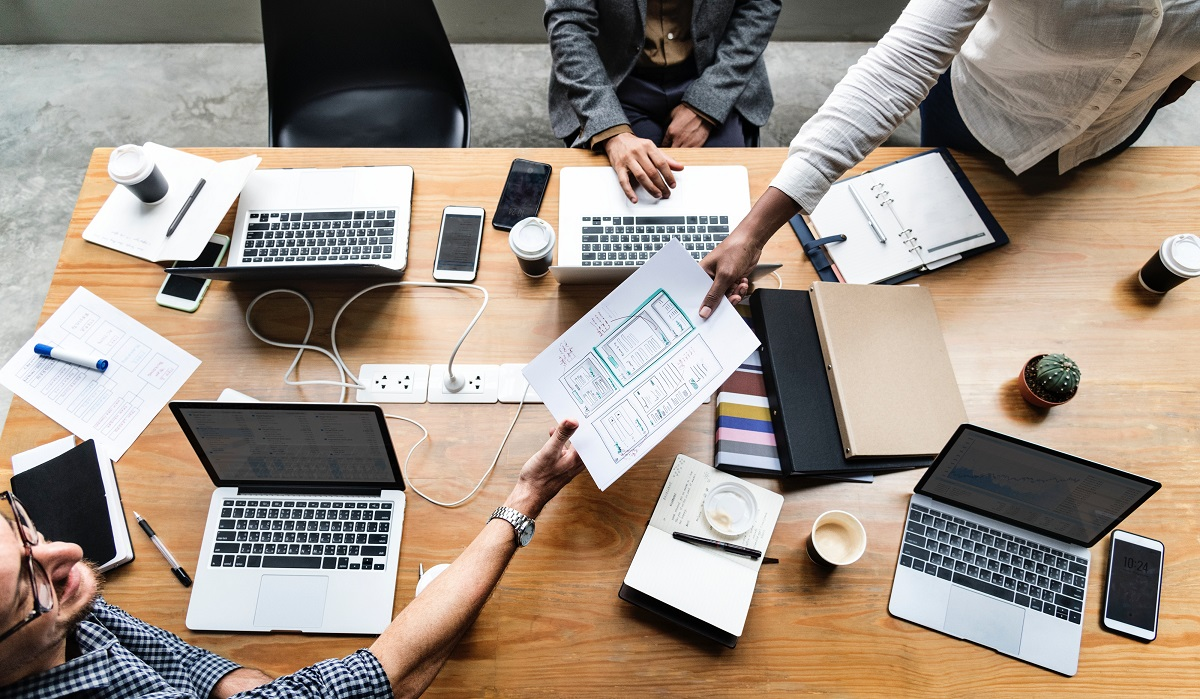
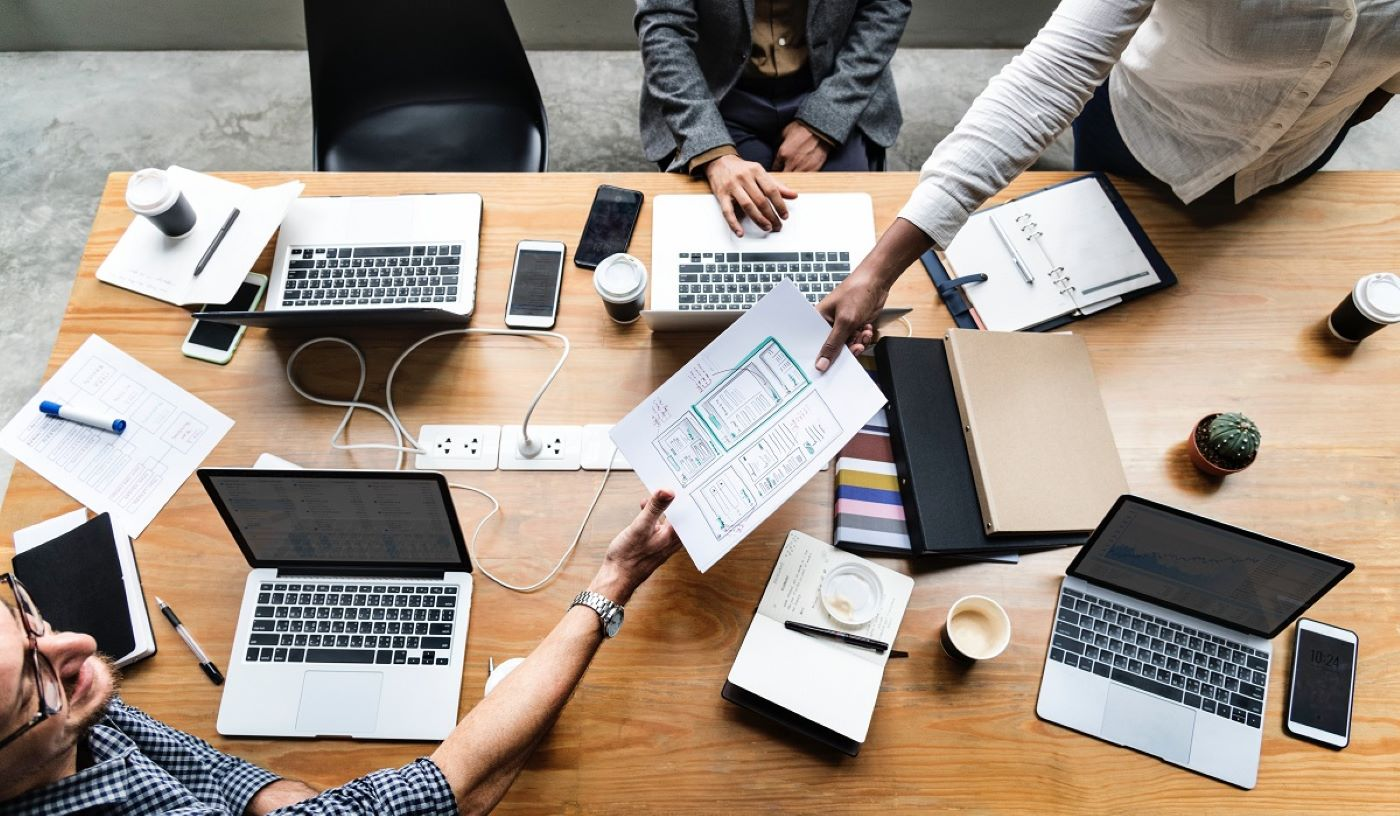
news

diff --git a/index.html b/index.html
@@ -65,18 +65,27 @@
     <button type="button" data-bs-target="#demo" data-bs-slide-to="0" class="active"></button>
     <button type="button" data-bs-target="#demo" data-bs-slide-to="1"></button>
     <button type="button" data-bs-target="#demo" data-bs-slide-to="2"></button>
+	<button type="button" data-bs-target="#demo" data-bs-slide-to="3"></button>
+	<button type="button" data-bs-target="#demo" data-bs-slide-to="4"></button>
   </div>
   
   <!-- The slideshow/carousel -->
   <div class="carousel-inner">
-    <div class="carousel-item active">
-      <img src="profile1a.webp" alt="prof1" class="d-block" style="width:80%">
+    
+    <div class="carousel-item">
+      <img src="slide.jpg" alt="computer" class="d-block" style="width:100%">
     </div>
     <div class="carousel-item">
-      <img src="profile2a.jpg" alt="prof2" class="d-block" style="width:80%">
+      <img src="slide2.jpg" alt="slide2" class="d-block" style="width:100%">
     </div>
-    <div class="carousel-item">
-      <img src="profile3a.jpg" alt="prof3" class="d-block" style="width:80%">
+	<div class="carousel-item active">
+      <img src="slide1a.jpg" alt="horse" class="d-block" style="width:100%">
+    </div>
+	<div class="carousel-item">
+      <img src="slide3.webp" alt="slide3" class="d-block" style="width:100%">
+    </div>
+	<div class="carousel-item">
+      <img src="slide4.jpg" alt="slide4" class="d-block" style="width:100%">
     </div>
   </div>
   
